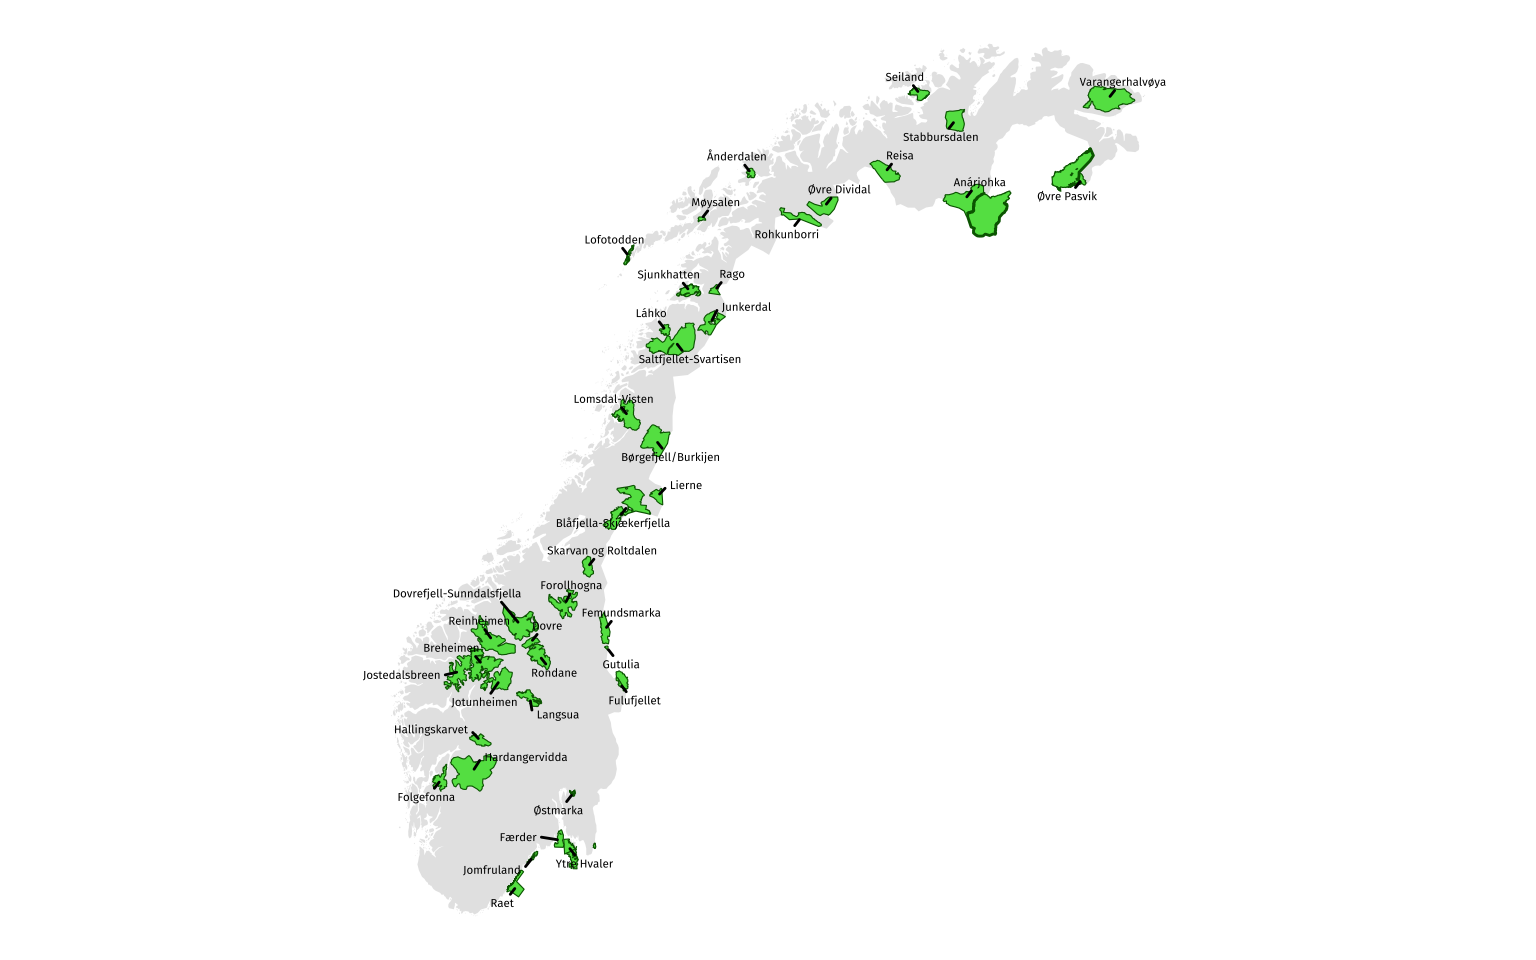
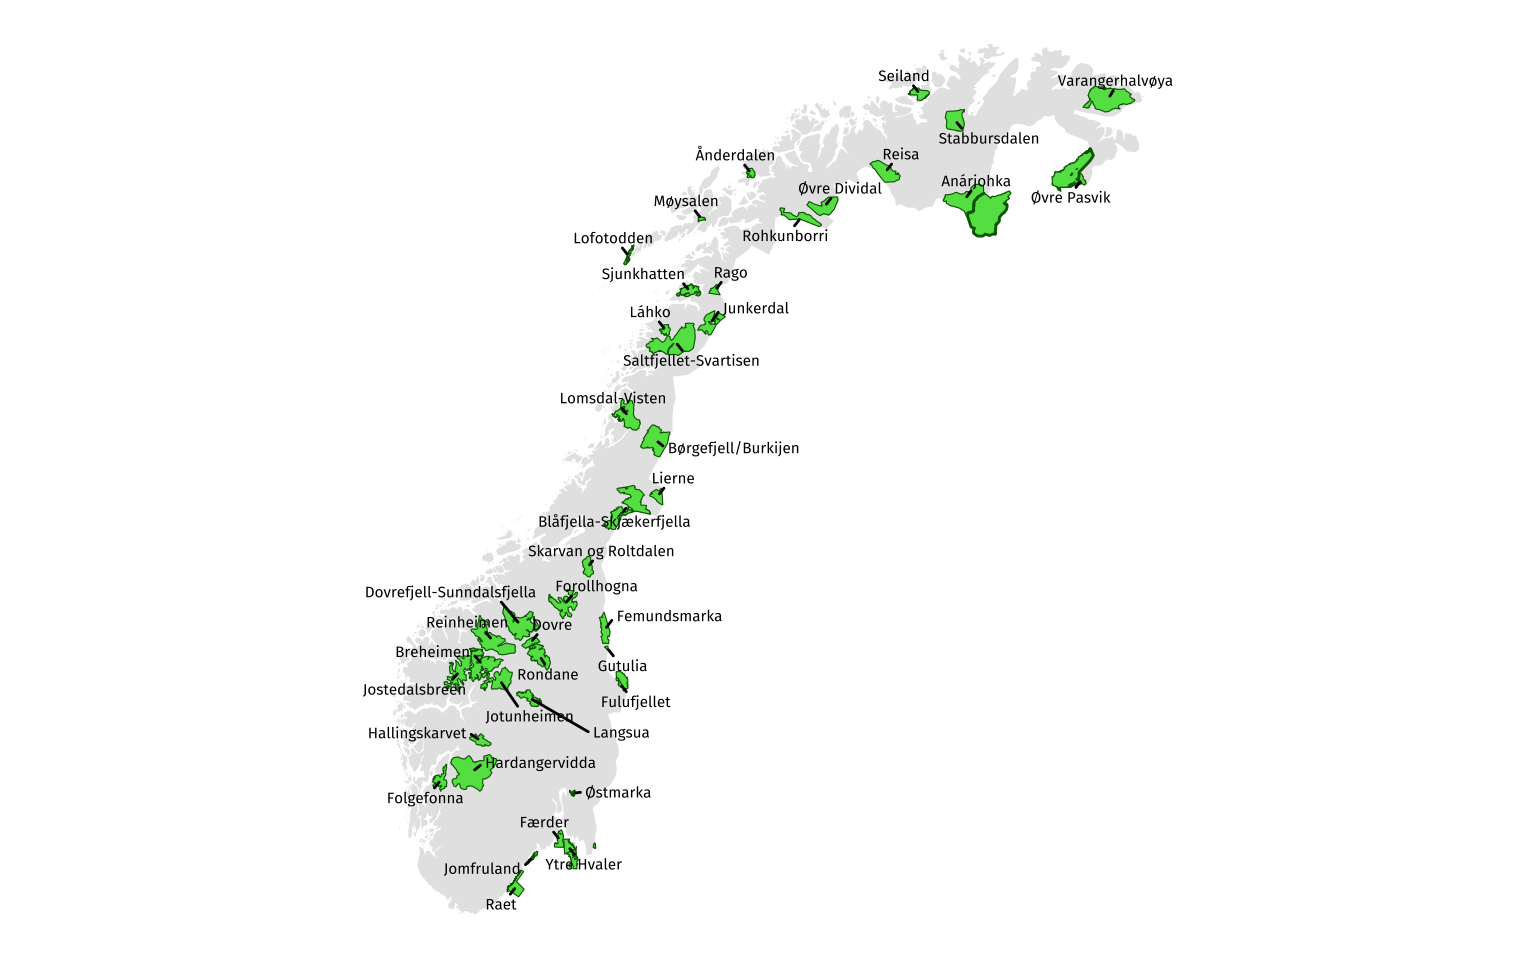
minor update to plot

diff --git a/content/posts/2026-advanced-map-norway/index.md b/content/posts/2026-advanced-map-norway/index.md
@@ -1082,7 +1082,7 @@ df_nasjonalpark_good |>
   ggrepel::geom_text_repel(
     data = df_nasjonalpark_good_centroids,
     aes(x = lon, y = lat, label = naturbase_navn),
-    size = 1.5,
+    size = 2,
     family = "custom",
     min.segment.length = 0,
     max.overlaps = Inf,
